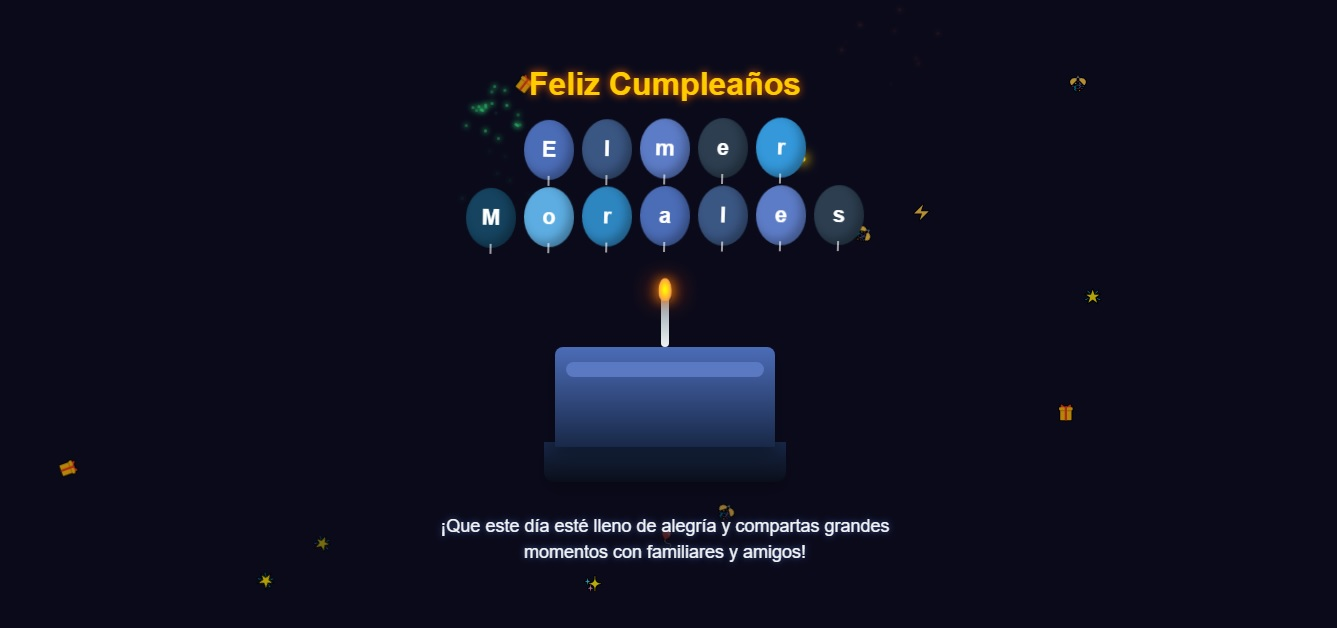
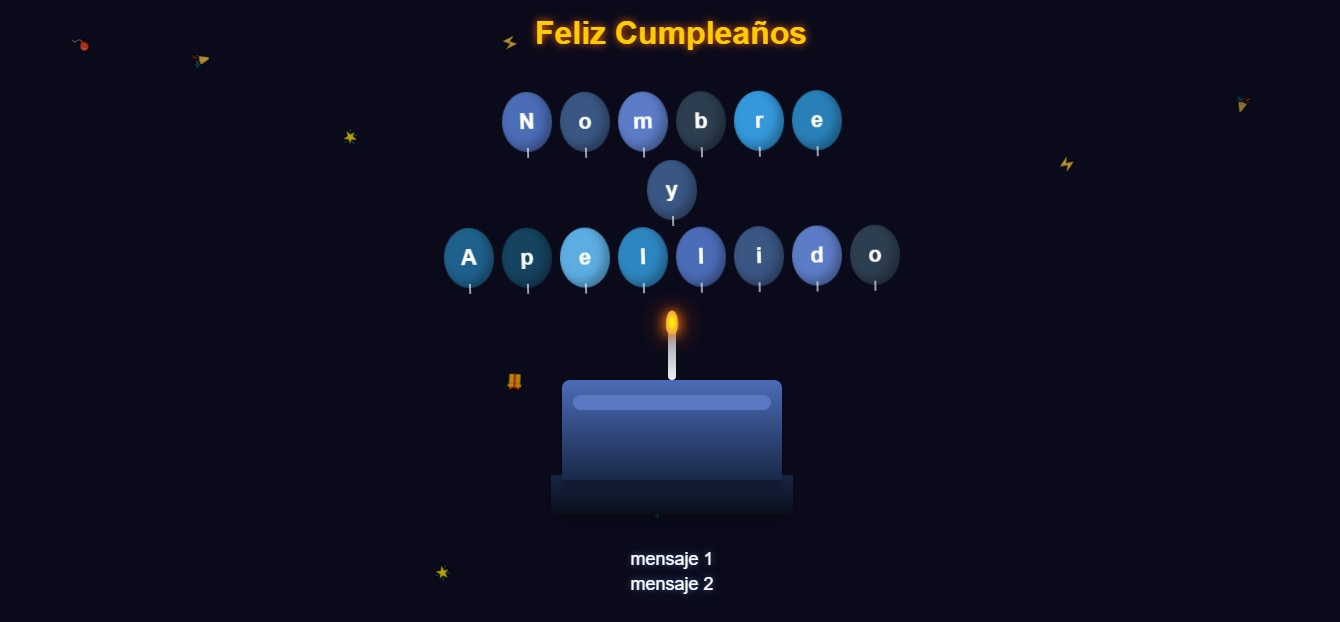
cambio de p4.jpg

diff --git a/Proyectos/04 Happy Birthday/index.html b/Proyectos/04 Happy Birthday/index.html
@@ -3,7 +3,7 @@
 <head>
     <meta charset="UTF-8">
     <meta name="viewport" content="width=device-width, initial-scale=1.0">
-    <title>¡Feliz Cumpleaños Mati's!</title>
+    <title>¡Feliz Cumpleaños Nombre!</title>
     <link rel="stylesheet" href="styles.css">
 </head>
 <body>
@@ -25,13 +25,13 @@
         </div>
         <!-- 4. Mensaje de cumpleaños -->
         <p class="birthday-message">
-            Que tu día esté lleno de alegría, regalos y mucha diversión. Tu mamá Angélica te quiere mucho, y hoy celebramos lo especial que eres. <br>
+            mensaje 1<br>
 
-            ¡Disfruta al máximo! 🎈🎉<br><br>
+            mensaje 2<br><br>
 
-            Con cariño,
+            mensaje 3
 
-            Rodry 😎
+            Atte
         </p>
     </div>
     <audio id="bgMusic" loop>

diff --git a/Proyectos/04 Happy Birthday/script.js b/Proyectos/04 Happy Birthday/script.js
@@ -1,9 +1,9 @@
 // Configuración
-const nameText = "Pequeño Matis";
+const nameText = "Nombre y Apellido"; // Cambia esto por el nombre del cumpleañero
 const balloonColors = ['#4b6cb7', '#3a5683', '#5d7cc7', '#2c3e50', '#3498db', 
                      '#2980b9', '#1f618d', '#154360', '#5dade2', '#2e86c1'];
 
-// Crear globos con el nombre (cumpleañero en una línea, Morales en otra)
+// Crear globos con el nombre (cumpleañero en una línea, apellido en otra)
 function createNameBalloons() {
     const balloonContainer = document.getElementById('balloons');
     const nameParts = nameText.split(' ');

diff --git a/index.html b/index.html
@@ -349,7 +349,7 @@
                     <div class="proyecto">
                         <img src="img/p4.jpg" alt="">
                         <div class="overlay">
-                            <a class="web-link" href="./Proyectos/04 happy birthday/index.html" target="_blank">
+                            <a class="web-link" href="./Proyectos/04 Happy Birthday/index.html" target="_blank">
                             <h3>Happy</h3>
                             <p>Birthday</p>
                             </a>
